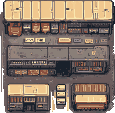
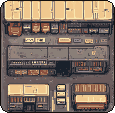
AW-260: outposts after a hop, clean outpost lots, outposts on the hex card
The Outpost panel went missing after hopping the ship into an outpost's
region: currentOutpost used the region the ship landed in, which a hop
doesn't change. It now uses the region the ship stands in. A hop into an
outpost's region fills its board and logs the arrival, and a pirate's
den refuses a hop from a ship its tower hasn't cleared this visit.

tools/art/outpost_lots.py fills the holes background removal left in the
Midshipmen's and Helm's sprites, rounds every lot's corners and edges it,
so no terrain shows through. The hex card and hover tooltip name the
outpost on its buildings.

Changed region(s): [[0.0, 0.0, 1.0, 1.0]]

diff --git a/src/sim/actions.ts b/src/sim/actions.ts
@@ -9,7 +9,8 @@ import { changeRep, clanRefuses } from "./reputation";
 import { arriveDeep, blindFoldFuel, blindFoldRange, deepPointBlockers, isBlindFold } from "./deepspace";
 import { covenantOnDocked, noticeArrival, noticeLanding, noticeScan } from "./covenant";
 import { fleetOnDocked } from "./fleet";
-import { denClearanceChance, outpostAt } from "./outposts";
+import { denClearanceChance, outpostAt, outpostOnHex, outpostTitle } from "./outposts";
+import { currentOutpost } from "./outpostservices";
 import { refreshOutpostBoard } from "./outpostjobs";
 import { guardJob, homeReserve, strandingBlocker } from "./saferange";
 import { diggersLeadOnDocked } from "./leads";
@@ -757,6 +758,18 @@ export function relocateShip(state: GameState, world: World, x: number, y: numbe
   if (here.x === x && here.y === y) return fail("The ship is already there.");
   const fuel = hopFuelTo(state, world, x, y);
   if (fuel > state.ship.fuel) return fail(`That hop needs ${fuel} fuel.`);
+  // Hopping into an outpost's region is arriving there (AW-260). A pirate's den clears ships coming
+  // down from orbit, where its tower can see them: a hop can't slip past that.
+  const from = surface.regionAt(here.x, here.y);
+  const to = surface.regionAt(x, y);
+  const arriving = to !== null && to !== from ? outpostAt(world, loc.bodyId, to) : undefined;
+  if (arriving?.clan === "freebooters" && state.denCleared !== loc.systemId) {
+    return fail(
+      state.denBarred === loc.systemId
+        ? `${arriving.name} won't clear you again this visit.`
+        : `${arriving.name}'s tower only clears ships coming down from orbit. Lift off and land in region ${(to ?? 0) + 1} to ask.`,
+    );
+  }
   state.ship.fuel -= fuel;
   advanceTime(state, HOP_MINUTES);
   if (loc.freeHop) {
@@ -769,6 +782,10 @@ export function relocateShip(state: GameState, world: World, x: number, y: numbe
   log(state, "travel", `Hopped the ship ${Math.round(hexDistance(here, { x, y }) * TILE_KM)} km to a new landing site.`);
   const landedIn = surface.regionAt(x, y);
   if (landedIn !== null) senseRegionDeposits(state, world, loc.bodyId, landedIn);
+  if (arriving) {
+    refreshOutpostBoard(state, world, arriving);
+    log(state, "info", `${arriving.name} is nearby. Its fuel, shop and jobs are in the Outpost panel.`);
+  }
   return ok(undefined);
 }
 
@@ -1908,6 +1925,8 @@ export interface HexRoute {
 export interface HexInfo {
   x: number;
   y: number;
+  /** A clan outpost's buildings on this hex (AW-260), and whether the ship is in its region to use it. */
+  outpost: { name: string; title: string; here: boolean } | null;
   terrain: string;
   region: number | null;
   /** Swept by the rover's sensors (otherwise only orbital readings). */
@@ -1972,9 +1991,11 @@ export function hexInfo(state: GameState, world: World, x: number, y: number): H
     }
   }
   const parkedState = loc.parkedBoat ? { vehicle: "boat" as const, p: loc.parkedBoat } : null;
+  const post = outpostOnHex(state, world, loc.bodyId, here);
   return {
     x,
     y,
+    outpost: post ? { name: post.name, title: outpostTitle(post), here: currentOutpost(state, world)?.id === post.id } : null,
     terrain: terrainName(body, t),
     region,
     explored,

diff --git a/tests/outpost-services.test.ts b/tests/outpost-services.test.ts
@@ -8,12 +8,16 @@ import {
   DAY,
   DEFAULT_UNIVERSE,
   fuelPriceFor,
+  hexInfo,
   newGame,
   OUTPOST_GEAR_MARKUP,
   outpostFuelPrice,
   outpostGear,
   outpostGearPrice,
+  outpostAt,
   outposts,
+  outpostSite,
+  relocateShip,
   sell,
   sellAtOutpost,
   TRADING_POST_RATE,
@@ -82,5 +86,44 @@ describe("outpost services (AW-23)", () => {
     expect(before - s.credits).toBe(price);
     expect(s.time - t0).toBeGreaterThanOrEqual(2 * DAY);
     expect(buyOutpostGear(s, world, u.id).ok).toBe(false);
+  });
+});
+
+describe("hopping to an outpost (AW-260)", () => {
+  /** Landed in another region of the outpost's world, on open ground the ship can hop from. */
+  function nextDoor(clan: ClanId): { s: GameState; o: ReturnType<typeof outposts>[number] } {
+    const o = outposts(world).find((x) => x.clan === clan)!;
+    const surface = world.surface(o.bodyId);
+    const body = world.body(o.bodyId).body;
+    const other = Array.from({ length: body.regions }, (_, r) => r).find((r) => r !== o.region && !outpostAt(world, o.bodyId, r))!;
+    const s = newGame({ seed: SEED });
+    s.ship.fuel = 60;
+    s.location = { kind: "surface", systemId: o.systemId, bodyId: o.bodyId, region: other, rover: null, ship: surface.landing(other), globalCoords: true };
+    return { s, o };
+  }
+
+  it("a hop into the outpost's region arrives there: its panel and its board", () => {
+    const { s, o } = nextDoor("lyceum");
+    expect(currentOutpost(s, world)).toBeNull();
+    const r = relocateShip(s, world, o.pad.x, o.pad.y);
+    if (!r.ok) throw new Error(r.reason);
+    expect(currentOutpost(s, world)?.id).toBe(o.id);
+    expect(s.contracts.some((c) => c.postedAt === o.id)).toBe(true);
+  });
+
+  it("a pirate's den won't take a hop from a ship its tower hasn't cleared", () => {
+    const { s, o } = nextDoor("freebooters");
+    const r = relocateShip(s, world, o.pad.x, o.pad.y);
+    expect(r.ok).toBe(false);
+    expect(r.ok ? "" : r.reason).toMatch(/coming down from orbit/);
+    s.denCleared = o.systemId;
+    expect(relocateShip(s, world, o.pad.x, o.pad.y).ok).toBe(true);
+  });
+
+  it("the hex card names the outpost on its buildings", () => {
+    const s = at("lyceum");
+    const o = outposts(world).find((x) => x.clan === "lyceum")!;
+    const site = outpostSite(o.pad);
+    expect(hexInfo(s, world, site.x, site.y)?.outpost).toMatchObject({ name: o.name, here: true });
   });
 });

diff --git a/src/ui/screens/SurfaceView.tsx b/src/ui/screens/SurfaceView.tsx
@@ -76,6 +76,9 @@ import {
   roverMobility,
   siteOnWater,
   siteReach,
+  currentOutpost,
+  outpostOnHex,
+  outpostTitle,
   roverSpecimenSlots,
   routeEnergyMult,
   hasPerk,
@@ -174,6 +177,7 @@ import {
 import { affordablePrefix, energyHome, evaluate, planPath, type Mover, type RoutePlan } from "./surface/routing";
 import { Section } from "../Section";
 import { ActionRail } from "../ActionRail";
+import { OutpostIcon } from "../OutpostIcon";
 import { CreaturePanel } from "./surface/CreaturePanel";
 import { OutpostPanel } from "./surface/OutpostPanel";
 import { CompIcon, useSpriteIndex } from "../compendiumSprites";
@@ -935,6 +939,13 @@ function Surface({ session, loc }: { session: GameSession; loc: SurfaceLoc }) {
     const info = TERRAIN_INFO[terrain];
     const needsClimber = info.passable === "climb" && !canClimb;
     lines.push({ text: tileName(tile), color: UI.text });
+    // A clan outpost's buildings (AW-260).
+    const post = outpostOnHex(state, world, loc.bodyId, tile);
+    if (post) {
+      const here = currentOutpost(state, world)?.id === post.id;
+      lines.push({ text: `${post.name}, ${outpostTitle(post)}`, color: UI.outpost });
+      lines.push({ text: here ? "Its services are in the Outpost panel" : "Land or hop the ship into this region to use it", color: UI.muted });
+    }
     const dep = depositAt(tile);
     const flora = floraAt(tile);
     const beast = creatureAt(tile);
@@ -2120,6 +2131,12 @@ function HexPanel({ info, onClose }: { info: HexInfo; onClose: () => void }) {
           ×
         </button>
       </div>
+      {info.outpost && (
+        <div class="small hex-outpost">
+          <OutpostIcon /> <b>{info.outpost.name}</b>, {info.outpost.title}.{" "}
+          <span class="muted">{info.outpost.here ? "Its services are in the Outpost panel." : "Land or hop the ship into this region to use it."}</span>
+        </div>
+      )}
       <dl class="kv">
         <dt>Position</dt>
         <dd>

diff --git a/src/sim/outposts.ts b/src/sim/outposts.ts
@@ -18,6 +18,7 @@ import { rngFor } from "./rng";
 import { outpostCountOf } from "./settings";
 import type { GameState } from "./state";
 import { dist, type Vec2 } from "./units";
+import { hexDistance } from "./hex";
 import type { World } from "./world";
 
 export interface Outpost {
@@ -144,6 +145,16 @@ export function outpostById(world: World, id: string): Outpost | undefined {
 /** The outpost in this region of this world, if any. */
 export function outpostAt(world: World, bodyId: string, region: number): Outpost | undefined {
   return outposts(world).find((o) => o.bodyId === bodyId && o.region === region);
+}
+
+/** Where an outpost's buildings stand: beside its landing pad, so a ship has room to set down. */
+export function outpostSite(pad: Vec2): Vec2 {
+  return { x: pad.x + 3, y: pad.y };
+}
+
+/** A known outpost whose buildings cover this hex (they span about three hexes), if any (AW-260). */
+export function outpostOnHex(state: GameState, world: World, bodyId: string, hex: Vec2): Outpost | null {
+  return knownOutposts(state, world).find((o) => o.bodyId === bodyId && hexDistance(outpostSite(o.pad), hex) <= 1) ?? null;
 }
 
 /**

diff --git a/src/ui/screens/surface/mapDraw.ts b/src/ui/screens/surface/mapDraw.ts
@@ -10,6 +10,7 @@ import {
   hexCorners,
   hexDistance,
   hexToPixel,
+  outpostSite,
   pixelToHex,
   REGION_SIZE,
   remainingTonnes,
@@ -317,10 +318,6 @@ function outpostSprite(clan: string): HTMLImageElement | null {
   return img.complete && img.naturalWidth > 0 ? img : null;
 }
 
-/** Where an outpost's buildings stand: beside its landing pad, so the ship has room to set down. */
-export function outpostSite(pad: Vec2): Vec2 {
-  return { x: pad.x + 3, y: pad.y };
-}
 
 /** A clan outpost's buildings (AW-23): its sprite, or a small teal block if the sprite isn't there. */
 export function drawOutpost(ctx: CanvasRenderingContext2D, L: Layout, pad: Vec2, clan: string): void {

diff --git a/src/sim/outpostservices.ts b/src/sim/outpostservices.ts
@@ -31,7 +31,10 @@ const OUTPOST_STOCK = 5;
 export function currentOutpost(state: GameState, world: World = worldFor(state.seed, state.worldGen ?? 1)): Outpost | null {
   const loc = state.location;
   if (loc.kind !== "surface") return null;
-  return outpostAt(world, loc.bodyId, loc.region) ?? null;
+  // The region the ship stands in now: a hop can carry it out of the one it landed in (AW-260).
+  const surface = world.surface(loc.bodyId);
+  const ship = loc.ship ?? surface.landing(loc.region);
+  return outpostAt(world, loc.bodyId, surface.regionAt(ship.x, ship.y) ?? loc.region) ?? null;
 }
 
 export function outpostFuelPrice(state: GameState): number {

diff --git a/tools/art/outpost_lots.py b/tools/art/outpost_lots.py
@@ -1,0 +1,97 @@
+"""
+Tidies the outpost sprites into clean lots (AW-260): public/assets/outpost-<clan>.png.
+
+Background removal cut holes where an outpost's own ground matched the backdrop (the Midshipmen's and
+Helm's pale yards), so the terrain showed through in ragged patches. This fills every hole with the
+lot's ground color, rounds the corners, and draws a 1 px dark edge, so each outpost reads as one lot.
+
+Idempotent: run it again on its own output and nothing changes but the edge.
+Usage: python tools/art/outpost_lots.py [clan ...]
+"""
+import sys
+from collections import Counter
+
+from PIL import Image, ImageDraw
+
+CLANS = ["lyceum", "freebooters", "diggers", "exchange", "covenant", "midshipmen", "helm"]
+EDGE = (20, 16, 14, 255)
+RADIUS = 9
+# Lots whose holes are in something pale (a hull) rather than bare ground.
+INPAINT = {"midshipmen"}
+
+
+def ground(px, w, h) -> tuple:
+    """The lot's ground: the commonest color touching a hole, or failing that, the edge of the lot."""
+    near = Counter()
+    for y in range(h):
+        for x in range(w):
+            if px[x, y][3] == 0:
+                for dx, dy in ((1, 0), (-1, 0), (0, 1), (0, -1)):
+                    q = (x + dx, y + dy)
+                    if 0 <= q[0] < w and 0 <= q[1] < h and px[q][3] > 0:
+                        near[px[q][:3]] += 1
+    if not near:
+        for x in range(w):
+            for y in (2, h - 3):
+                if px[x, y][3] > 0:
+                    near[px[x, y][:3]] += 1
+    return near.most_common(1)[0][0]
+
+
+def inpaint(px, w, h, fallback) -> dict:
+    """Grow color into the holes a ring at a time: each hole pixel takes the mean of its filled
+    neighbors, leaving out near-black outline pixels when anything lighter is beside it."""
+    color = {(x, y): px[x, y][:3] for y in range(h) for x in range(w) if px[x, y][3] > 0}
+    holes = {(x, y) for y in range(h) for x in range(w) if px[x, y][3] == 0}
+    lum = lambda c: 0.3 * c[0] + 0.59 * c[1] + 0.11 * c[2]
+    filled = {}
+    while holes:
+        ring = {}
+        for x, y in holes:
+            near = [color[q] for q in ((x + 1, y), (x - 1, y), (x, y + 1), (x, y - 1), (x + 1, y + 1), (x - 1, y - 1), (x + 1, y - 1), (x - 1, y + 1)) if q in color]
+            if not near:
+                continue
+            light = [c for c in near if lum(c) >= 60] or near
+            ring[(x, y)] = tuple(round(sum(c[i] for c in light) / len(light)) for i in range(3))
+        if not ring:
+            for q in holes:
+                filled[q] = fallback[:3]
+            break
+        color.update(ring)
+        filled.update(ring)
+        holes -= set(ring)
+    return filled
+
+
+def tidy(clan: str) -> None:
+    path = f"public/assets/outpost-{clan}.png"
+    im = Image.open(path).convert("RGBA")
+    w, h = im.size
+    px = im.load()
+    g = ground(px, w, h) + (255,)
+    # The lot: a rounded rectangle over the whole sprite.
+    mask = Image.new("L", (w, h), 0)
+    ImageDraw.Draw(mask).rounded_rectangle([0, 0, w - 1, h - 1], radius=RADIUS, fill=255)
+    m = mask.load()
+    # Fill each hole from its own surroundings, skipping dark outlines, so a pale hull fills pale.
+    # Most lots fill flat with their ground; the Midshipmen's holes are in a pale hull, so they grow from around.
+    filled = inpaint(px, w, h, g) if clan in INPAINT else {}
+    out = Image.new("RGBA", (w, h), (0, 0, 0, 0))
+    o = out.load()
+    for y in range(h):
+        for x in range(w):
+            if m[x, y] == 0:
+                continue
+            p = px[x, y]
+            o[x, y] = p[:3] + (255,) if p[3] > 0 else filled.get((x, y), g[:3]) + (255,)
+    # A 1 px dark edge just inside the lot's outline.
+    for y in range(h):
+        for x in range(w):
+            if m[x, y] and any(not (0 <= x + dx < w and 0 <= y + dy < h) or m[x + dx, y + dy] == 0 for dx, dy in ((1, 0), (-1, 0), (0, 1), (0, -1))):
+                o[x, y] = EDGE
+    out.save(path)
+    print(f"{clan}: ground {g[:3]}")
+
+
+for c in sys.argv[1:] or CLANS:
+    tidy(c)
